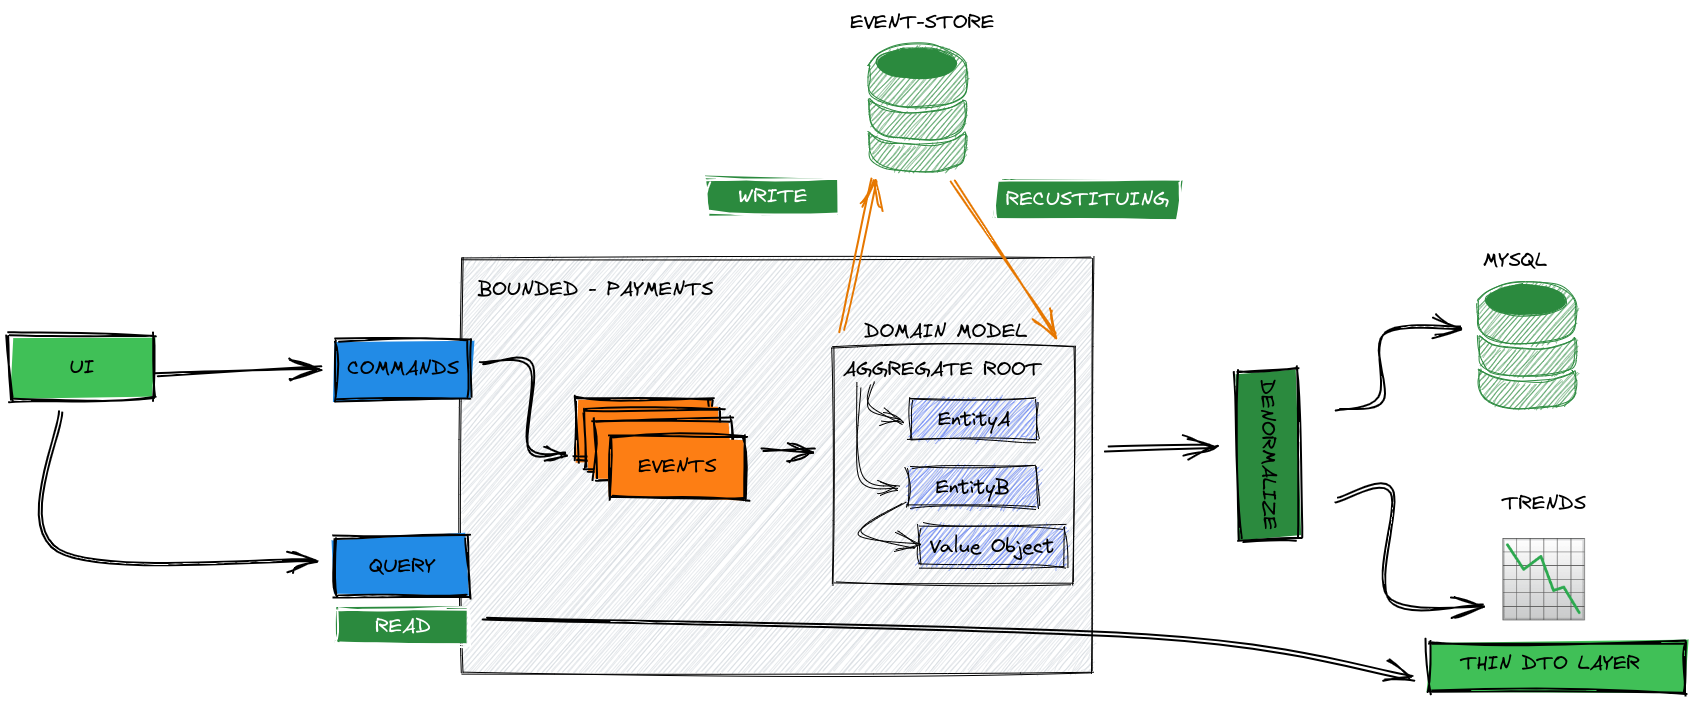
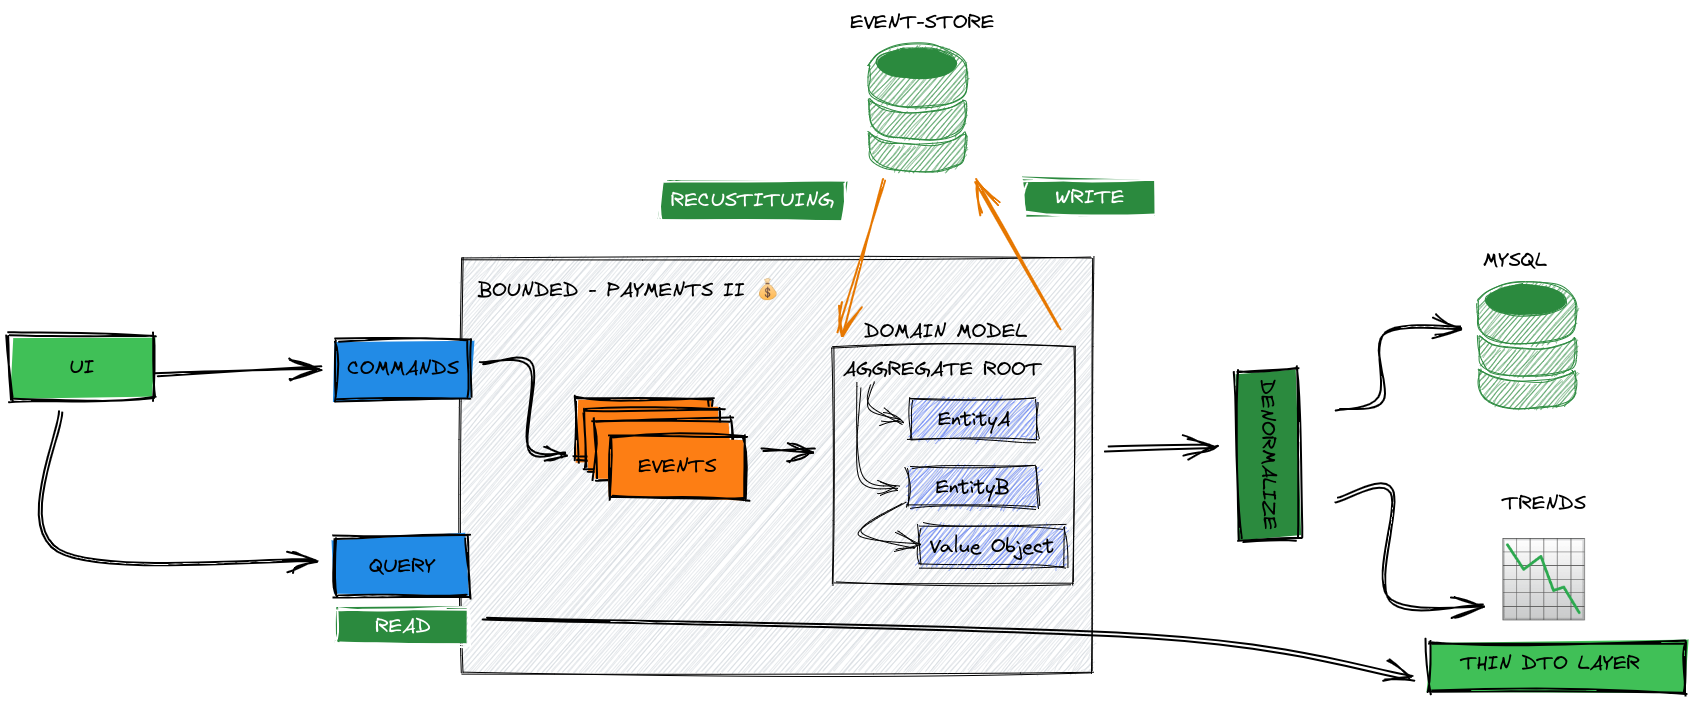
Final fixes

diff --git a/index.html b/index.html
@@ -195,17 +195,19 @@
                 <h3>The goal! ⚽</h3>
                 <p>New capacity to explore the Domain means <br> new opportunities for Business and Devs</p>
                 <p>
-                    The true and unique invariant is the Business
+                    ❗We do not forget❗
+                    <br>
+                    The true and unique <span style="text-decoration: underline;">invariant</span> is the <span style="text-decoration: underline;">Business</span>
                     DDD / CQRS / ES
                     <br>
-                    Now are ok tomorrow ? 
+                    Now are ok <span style="text-decoration: underline;">tomorrow ?</span>  
                 </p>
                 <br>
                 <p>
                     In Pagamenti II we want more value <br>
                     💰💰💰
                     <br>
-                    in the next slide, we will show how!
+                    ...in the next slide, we will show how!
                 </p>
             </section>
 
